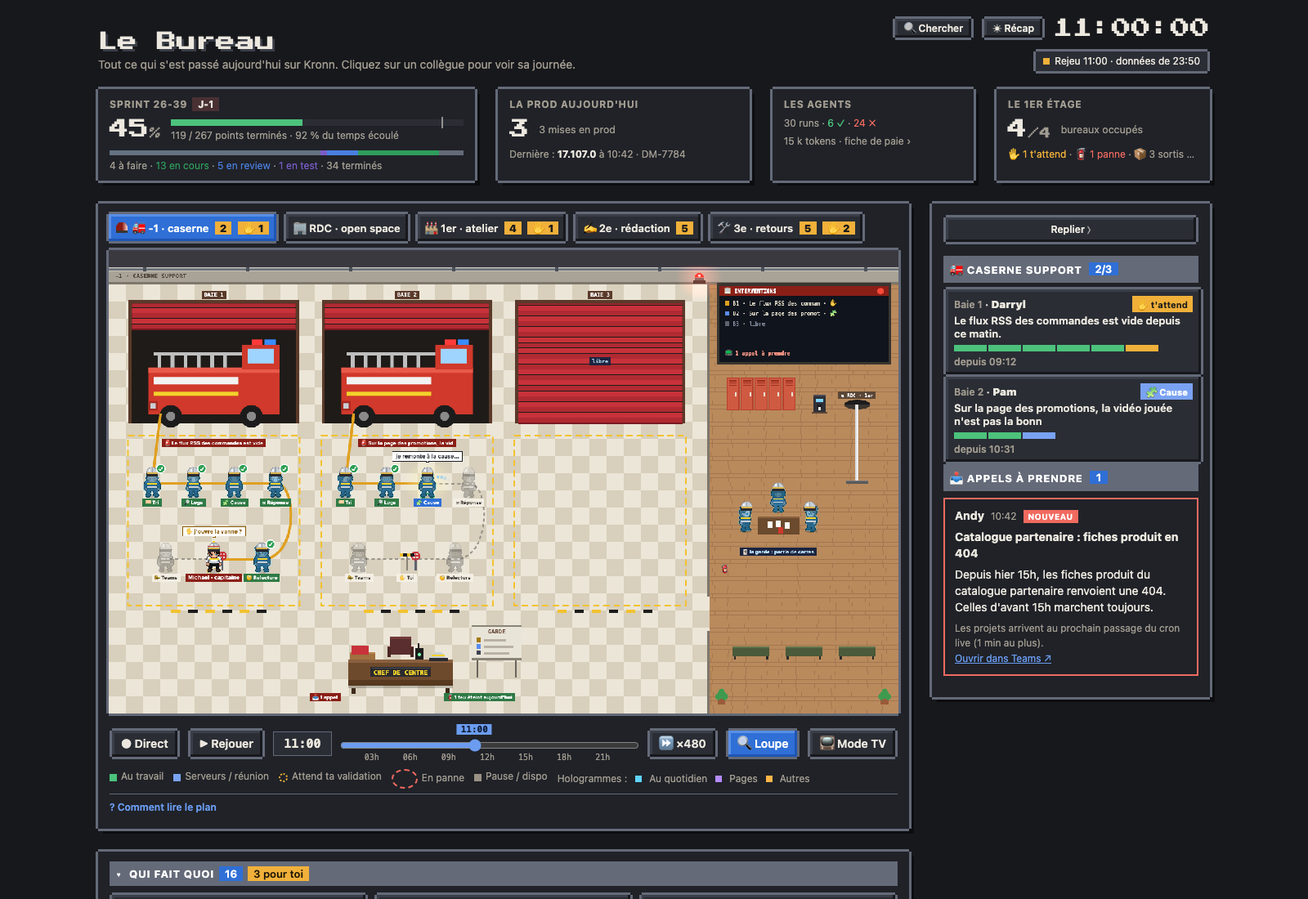
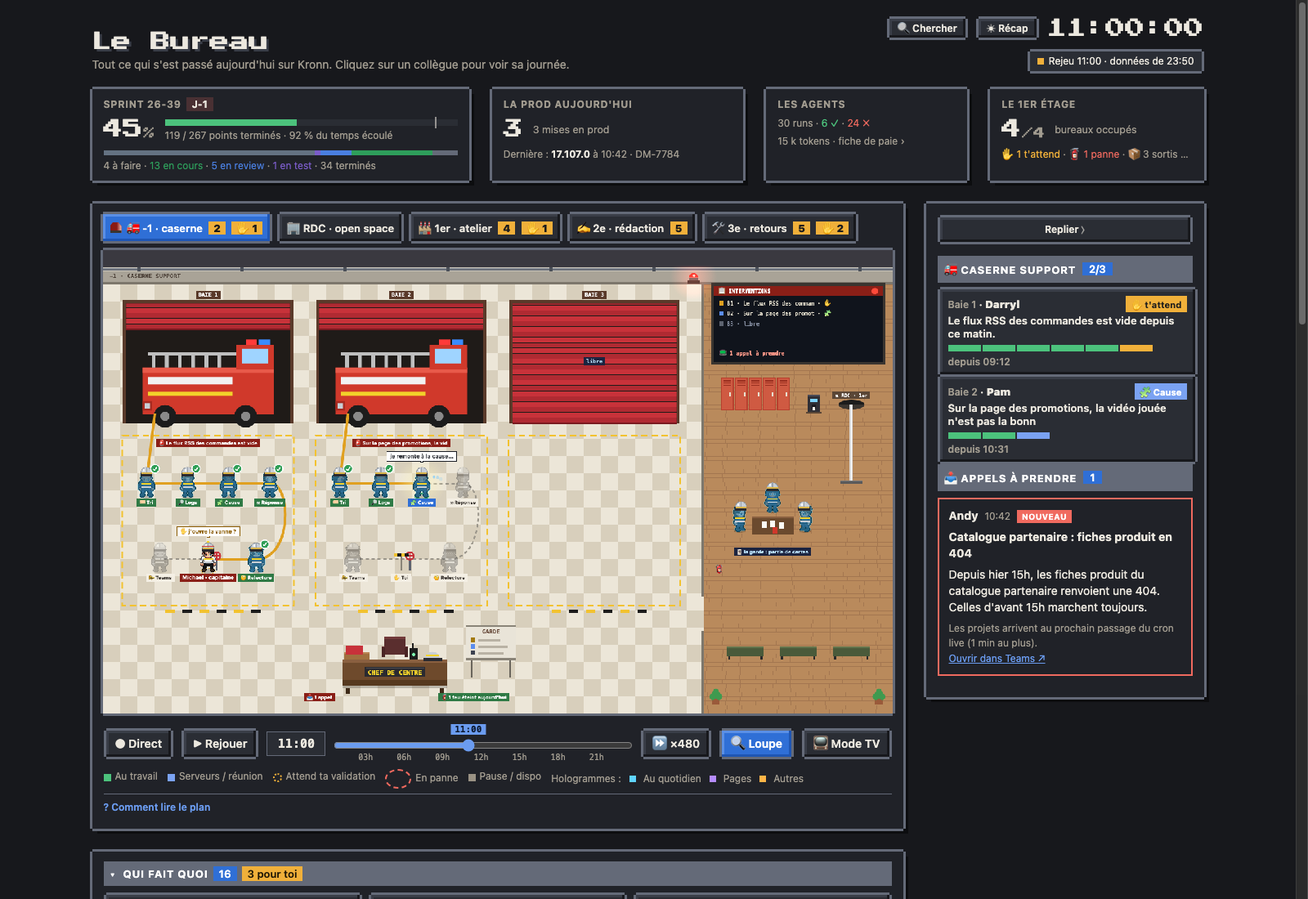
fix(etages): la nuit des 2e, 3e et -1 comme au RDC, pièce par pièce
Une seule lumière du soir pour les étages (floorNight, 68-atelier.js), le 1er compris, sans changement à l'écran pour lui.
Comme au RDC : le voile suit le soleil (crépuscule, teinte du soir) au lieu de basculer à la fermeture ; chaque pièce où
l'on travaille s'allume en fondu avec ses plafonniers, comme la cantine (la salle de rédaction et les bureaux de revue au
2e, les bureaux du 3e, les baies et la salle de garde au -1) ; chaque agent au travail a sa lampe et son écran ; la lampe
du bureau du boss reste allumée. Hors des heures de bureau, la veilleuse reste, même en plein jour le week-end.

diff --git a/page/src/68-atelier.js b/page/src/68-atelier.js
@@ -685,31 +685,62 @@ function atWindows(now){
   for(const x of AT_WINDOWS){R(ctx,x*T_+4,T_+4,T_*1.5,20,'#e7e1d3');R(ctx,x*T_+6,T_+6,T_*1.5-4,16,sky);drawStars(x*T_+6,T_+6,T_*1.5-4,16,now);
     themeWindow(x*T_+6,T_+6,T_*1.5-4,16,now,x);R(ctx,x*T_+4+T_*.75,T_+4,2,20,'#e7e1d3');}
 }
-let AT_NIGHT_CV=null, AT_NIGHT_AT=0, AT_NIGHT_SIG='';
-function atNight(slots,now){
-  const d=daylight(T), dark=(1-d.k)*NIGHT_MAX;if(dark<.02)return;
-  const W_=AT_W/LQ, H_=AT_H/LQ;
-  if(!AT_NIGHT_CV){AT_NIGHT_CV=[lightCanvas(W_,H_),lightCanvas(W_,H_)];}
-  // le masque se refait toutes les 200 ms, comme au RDC ; plus souvent quand quelqu'un marche, pour que sa lumière le suive
-  const sig=AT_LIT.map(q=>Math.round(q.x/4)+','+Math.round(q.y/4)).join(' ');
-  if(now-AT_NIGHT_AT>200||!AT_NIGHT_AT||sig!==AT_NIGHT_SIG&&now-AT_NIGHT_AT>40){AT_NIGHT_AT=now;AT_NIGHT_SIG=sig;
-    const tint=mixC([10,14,40],d.morning?[70,40,24]:[66,30,52],d.twi*.7), m=AT_NIGHT_CV[0].getContext('2d');
+// La nuit des étages, la même au 1er, au 2e, au 3e et au -1 : le voile du RDC (42-light.js), qui suit le soleil.
+// S : la mémoire de l'étage ; o.rooms : ses pièces [x0,y0,x1,y1,allumée] en cases (bornes comprises, comme
+// LAYOUT.light_rooms), qui s'allument et s'éteignent en fondu avec leurs plafonniers, comme la cantine du RDC ; o.rects :
+// des aplats retirés au voile [x,y,w,h,a] ; o.spots : {x,y,r,a,c} (c : halo coloré, comme les lampes du RDC) ; o.track :
+// ceux qui marchent (le masque se refait plus souvent quand ils bougent, pour que leur lumière les suive) ; o.closed :
+// hors des heures de bureau, la veilleuse même si le soleil est levé (le soir d'été, le week-end)
+function floorNight(S,o,now){
+  const d=daylight(T), dark=Math.max((1-d.k)*NIGHT_MAX,o.closed?NIGHT_MAX:0);if(dark<.02){S.lv=null;return;}
+  const W_=AT_W/LQ, H_=AT_H/LQ, rooms=o.rooms||[], spots=o.spots||[], halo=rooms.length>0||spots.some(q=>q.c);
+  if(!S.cv)S.cv=[lightCanvas(W_,H_),lightCanvas(W_,H_),lightCanvas(AT_W,AT_H)];
+  if(!S.lv||S.lv.length!==rooms.length)S.lv=rooms.map(z=>z[4]?1:0);
+  const sig=(o.track||[]).map(q=>Math.round(q.x/4)+','+Math.round(q.y/4)).join(' ');
+  if(now-S.at>200||!S.at||sig!==S.sig&&now-S.at>40){const dt=S.at?Math.min(1000,now-S.at):LIGHT_FADE;S.at=now;S.sig=sig;
+    rooms.forEach((z,i)=>{S.lv[i]+=((z[4]?1:0)-S.lv[i])*Math.min(1,dt/LIGHT_FADE);});
+    const tint=mixC([10,14,40],d.morning?[70,40,24]:[66,30,52],d.twi*.7), m=S.cv[0].getContext('2d');
     m.setTransform(1,0,0,1,0,0);m.globalCompositeOperation='source-over';m.clearRect(0,0,W_,H_);
     m.fillStyle=`rgba(${tint[0]},${tint[1]},${tint[2]},${dark})`;m.fillRect(0,0,W_,H_);
     m.setTransform(1/LQ,0,0,1/LQ,0,0);m.globalCompositeOperation='destination-out';
-    slots.forEach((r,i)=>{const sweep=AT_MEM.clean&&AT_MEM.clean.stop.i===i;if(!r&&!sweep)return;const g=AT_G[i];
-      m.fillStyle=r?'rgba(0,0,0,.45)':'rgba(0,0,0,.25)';m.fillRect(g.x0*AT_TS,g.y0*AT_TS,(g.x1-g.x0)*AT_TS,(g.y1-g.y0)*AT_TS);
-      if(!r)return;
-      for(const p of AT_DESKS){const s=atSpot(g,p.k), y=s.row===1?g.feet1:g.feet2;softSpot(m,s.x,y-24,1.7*AT_TS,.9);} // chaque poste, sous sa lampe
-      softSpot(m,(g.bx0+g.bx1)/2,(g.b1+g.b2)/2+g.H/2,(g.bx1-g.bx0)/2,.5);}); // le tapis
-    for(const h of AT_HITS)if(h.kind==='agent'||h.kind==='bernard'||h.kind==='cleaner'||h.kind==='pompier')softSpot(m,h.x+14,h.y+30,42,.95);
-    for(const q of AT_LIT)softSpot(m,q.x,q.y-26,42,.95); // comme au RDC (42-light.js) : le boss, et ceux qui marchent, dans leur lumière
-    softSpot(m,AT_CHAIR.x,AT_CHAIR.y-14,3.2*AT_TS,.9); // la lampe du bureau du boss, toujours allumée
-    softSpot(m,23*AT_TS,2.6*AT_TS,6*AT_TS,.7); // le grand tableau
-    softSpot(m,46*AT_TS-10,AT_HY0*AT_TS+20,40,.5);softSpot(m,1.1*AT_TS,AT_HY1*AT_TS-20,30,.5); // la sortie, la machine à café
-    const l=AT_NIGHT_CV[1].getContext('2d');l.clearRect(0,0,W_,H_);l.filter='blur(3px)';l.drawImage(AT_NIGHT_CV[0],0,0);l.filter='none';
-  }
-  const sm=ctx.imageSmoothingEnabled;ctx.imageSmoothingEnabled=true;ctx.drawImage(AT_NIGHT_CV[1],0,0,AT_W,AT_H);ctx.imageSmoothingEnabled=sm;
+    for(const [x,y,w,h,a] of o.rects||[]){m.fillStyle=`rgba(0,0,0,${a})`;m.fillRect(x,y,w,h);}
+    rooms.forEach((z,i)=>{const lv=S.lv[i];if(lv<.01)return;const [x0,y0,x1,y1]=z;
+      m.fillStyle=`rgba(0,0,0,${(.22*lv).toFixed(3)})`;m.fillRect(x0*AT_TS,y0*AT_TS-6,(x1-x0+1)*AT_TS,(y1-y0+1)*AT_TS+6);
+      for(const [x,y] of floorLamps(z))softSpot(m,x,y,2.6*AT_TS,.7*lv);});
+    for(const q of spots)softSpot(m,q.x,q.y,q.r,q.a);
+    const l=S.cv[1].getContext('2d');l.clearRect(0,0,W_,H_);l.filter='blur(3px)';l.drawImage(S.cv[0],0,0);l.filter='none';
+    const h=S.cv[2].getContext('2d'), f=Math.min(1,dark/NIGHT_MAX*1.4);h.clearRect(0,0,AT_W,AT_H);
+    if(halo){for(const q of spots)if(q.c)softSpot(h,q.x,q.y,q.r*.9,0,q.c.replace(/[\d.]+\)$/,mm=>(parseFloat(mm)*f).toFixed(3)+')'));
+      rooms.forEach((z,i)=>{const lv=S.lv[i];if(lv<.01)return;for(const [x,y] of floorLamps(z))softSpot(h,x,y,2.2*AT_TS,0,`rgba(255,226,170,${(.07*lv*f).toFixed(3)})`);});}}
+  const sm=ctx.imageSmoothingEnabled;ctx.imageSmoothingEnabled=true;ctx.drawImage(S.cv[1],0,0,AT_W,AT_H);ctx.imageSmoothingEnabled=sm;
+  if(halo){ctx.save();ctx.globalCompositeOperation='lighter';ctx.drawImage(S.cv[2],0,0);ctx.restore();}
+}
+// les plafonniers d'une pièce : une flaque de lumière toutes les 3 cases (ceilingLamps du RDC, aux cases des étages)
+function floorLamps([x0,y0,x1,y1]){const xs=[], ys=[], w=x1-x0+1, h=y1-y0+1;
+  if(w<=3)xs.push((x0+x1+1)/2);else for(let x=x0+1.5;x<=x1+.5;x+=3)xs.push(x);
+  if(h<=3)ys.push((y0+y1+1)/2);else for(let y=y0+1.5;y<=y1+.5;y+=3)ys.push(y);
+  return xs.flatMap(x=>ys.map(y=>[x*AT_TS,y*AT_TS]));}
+// chacun lisible (le voile s'ouvre autour de lui, comme au RDC) ; ceux qui travaillent ont leur lampe de bureau et leur écran
+function floorPeopleSpots(people){const out=[];
+  for(const [c] of people){if(!c.sprite||!c.pos||c.ghost)continue;const {x,y}=c.pos;out.push({x,y:y-26,r:30,a:.8});
+    if(c._st&&['run','gate','err'].includes(c._st.st)&&!c.moving)out.push({x:x+10,y:y-20,r:30,a:.85,c:'rgba(255,214,150,.18)'},{x,y:y-34,r:16,a:.6,c:'rgba(120,200,255,.14)'});}
+  return out;}
+// la lampe du bureau du boss, toujours allumée (comme au RDC)
+const floorBossLamp=(x,F)=>({x,y:F-14,r:46,a:.85,c:'rgba(255,214,150,.2)'});
+const AT_NIGHT={};
+function atNight(slots,now){
+  const rects=[], spots=[];
+  slots.forEach((r,i)=>{const sweep=AT_MEM.clean&&AT_MEM.clean.stop.i===i;if(!r&&!sweep)return;const g=AT_G[i];
+    rects.push([g.x0*AT_TS,g.y0*AT_TS,(g.x1-g.x0)*AT_TS,(g.y1-g.y0)*AT_TS,r?.45:.25]);
+    if(!r)return;
+    for(const p of AT_DESKS){const s=atSpot(g,p.k), y=s.row===1?g.feet1:g.feet2;spots.push({x:s.x,y:y-24,r:1.7*AT_TS,a:.9});} // chaque poste, sous sa lampe
+    spots.push({x:(g.bx0+g.bx1)/2,y:(g.b1+g.b2)/2+g.H/2,r:(g.bx1-g.bx0)/2,a:.5});}); // le tapis
+  for(const h of AT_HITS)if(h.kind==='agent'||h.kind==='bernard'||h.kind==='cleaner'||h.kind==='pompier')spots.push({x:h.x+14,y:h.y+30,r:42,a:.95});
+  for(const q of AT_LIT)spots.push({x:q.x,y:q.y-26,r:42,a:.95}); // comme au RDC (42-light.js) : le boss, et ceux qui marchent, dans leur lumière
+  spots.push({x:AT_CHAIR.x,y:AT_CHAIR.y-14,r:3.2*AT_TS,a:.9}, // la lampe du bureau du boss, toujours allumée
+    {x:23*AT_TS,y:2.6*AT_TS,r:6*AT_TS,a:.7}, // le grand tableau
+    {x:46*AT_TS-10,y:AT_HY0*AT_TS+20,r:40,a:.5},{x:1.1*AT_TS,y:AT_HY1*AT_TS-20,r:30,a:.5}); // la sortie, la machine à café
+  floorNight(AT_NIGHT,{rects,spots,track:AT_LIT},now);
 }
 // ---------- l'image ----------
 function renderAtelier(now){

diff --git a/page/src/68-caserne.js b/page/src/68-caserne.js
@@ -370,23 +370,16 @@ function csCaptain(slots,now,dt,people){
   if(home_)csLate(people,()=>atPill(boss.name+' · capitaine',p.x,Math.round(F+17*K+12),'#8a1f17','#fff','bold 10px system-ui,sans-serif'),F+3); // sous le bureau
   CS_LIT.push(p);atHitCs('captain',p.x-16,p.y-56,32,60,{});
 }
-// ---------- nuit : hors des heures de bureau, la caserne passe en veilleuse ----------
-let CS_NIGHT_CV=null, CS_NIGHT_AT=0, CS_NIGHT_SIG='';
-function csNight(slots,now){
-  if(atOpen())return;
-  const W_=AT_W/LQ, H_=AT_H/LQ, T=AT_TS;
-  if(!CS_NIGHT_CV)CS_NIGHT_CV=[lightCanvas(W_,H_),lightCanvas(W_,H_)];
-  // comme au 1er (#154) : le masque se refait toutes les 200 ms, plus souvent quand le capitaine marche, pour que sa lumière le suive
-  const sig=CS_LIT.map(q=>Math.round(q.x/4)+','+Math.round(q.y/4)).join(' ');
-  if(now-CS_NIGHT_AT>200||!CS_NIGHT_AT||sig!==CS_NIGHT_SIG&&now-CS_NIGHT_AT>40){CS_NIGHT_AT=now;CS_NIGHT_SIG=sig;
-    const m=CS_NIGHT_CV[0].getContext('2d');m.setTransform(1,0,0,1,0,0);m.globalCompositeOperation='source-over';m.clearRect(0,0,W_,H_);
-    m.fillStyle='rgba(10,14,40,.5)';m.fillRect(0,0,W_,H_);m.setTransform(1/LQ,0,0,1/LQ,0,0);m.globalCompositeOperation='destination-out';
-    slots.forEach((s,b)=>{if(!s)return;const z=CS_G[b];softSpot(m,z.cx,(CS_DY1-1)*T,4*T,.7);softSpot(m,z.cx,(CS_R1+.5)*T,4.5*T,.8);softSpot(m,z.cx,(CS_R2+.3)*T,4*T,.7);});
-    softSpot(m,40.5*T,23.4*T,4.5*T,.55);softSpot(m,40.6*T,4.2*T,5*T,.7);softSpot(m,CS_POLE.x,CS_POLE.y1-1.2*T,2.2*T,.6);softSpot(m,CS_DESK.x,CS_DESK.y-10,3.6*T,.9); // la lampe du bureau du chef de centre, toujours allumée
-    for(const q of CS_LIT)softSpot(m,q.x,q.y-26,42,.95); // le capitaine dans sa lumière, à son bureau ou en route vers la vanne
-    for(const w of CS_MEM.walk||[])if(w.pos)softSpot(m,w.pos.x,w.pos.y-26,40,.9); // les pompiers qui descendent, courent ou remontent
-    const l=CS_NIGHT_CV[1].getContext('2d');l.clearRect(0,0,W_,H_);l.filter='blur(3px)';l.drawImage(CS_NIGHT_CV[0],0,0);l.filter='none';}
-  const sm=ctx.imageSmoothingEnabled;ctx.imageSmoothingEnabled=true;ctx.drawImage(CS_NIGHT_CV[1],0,0,AT_W,AT_H);ctx.imageSmoothingEnabled=sm;
+// ---------- la nuit, comme au RDC (floorNight) : chaque baie en intervention s'allume ; la salle de garde tant que la garde
+// veille (la nuit, elle dort : sa veilleuse seulement) ; la lampe du bureau du chef de centre reste allumée ; le capitaine et
+// les pompiers qui descendent la barre, courent ou remontent ont leur lumière ; hors des heures de bureau, la veilleuse ----------
+const CS_NIGHT={};
+function csNight(slots,people,now){
+  const T_=AT_TS, open=atOpen(), walk=(CS_MEM.walk||[]).filter(w=>w.pos).map(w=>w.pos), lit=[...CS_LIT,...walk];
+  const rooms=CS_G.map((z,b)=>[CS_BX[b],CS_DY1,CS_BX[b]+CS_BW-1,Math.floor(CS_Z1),!!slots[b]]).concat([[35,2,45,26,open]]);
+  floorNight(CS_NIGHT,{rooms,closed:!open,track:lit,spots:[...floorPeopleSpots(people),...lit.map(q=>({x:q.x,y:q.y-26,r:42,a:.95})),
+    floorBossLamp(CS_DESK.x,CS_DESK.y),{x:40.5*T_,y:23.4*T_,r:2.2*T_,a:.5,c:'rgba(255,190,120,.12)'}, // la veilleuse de la garde
+    {x:CS_POLE.x,y:CS_POLE.y1-1.2*T_,r:2.2*T_,a:.6}]},now); // la barre
 }
 // ---------- le ménage du soir au -1 : après le 1er (atCleanVisit, 68-atelier.js), l'agent d'entretien descend la barre ----------
 // Rejouable comme au 1er : tout se lit dans l'heure du plan. Il descend par la barre (le seul accès), balaie l'allée devant
@@ -446,7 +439,7 @@ function renderCaserne(now){
   csBoard(slots,now);csGuard(now,people);csWalkers(now,dt,people);csCaptain(slots,now,dt,people);csBeacon(now);
   people.sort((a,b)=>a[0].pos.y-b[0].pos.y).forEach(([c,d,before,after])=>{if(before&&d)d();if(c.sprite)drawChar(c,now);if(!before&&d)d();if(after)after();});
   csTheme(now); // comme au 1er : sapin et guirlande à Noël, citrouilles à Halloween, ballons
-  csNight(slots,now);
+  csNight(slots,people,now);
   const hp=csPickedAt();if(hp)selHalo(hp.x,hp.y-26,AT_W,AT_H); // comme au RDC et au 1er : le plan s'assombrit autour de celui qu'on a choisi
   if(CS_SEL!=null){const b=CS_MEM.slots.indexOf(CS_SEL);if(b>=0){const z=CS_G[b];ctx.save();ctx.strokeStyle='#ffffff';ctx.lineWidth=3;ctx.setLineDash([8,6]);ctx.lineDashOffset=-now/60;ctx.strokeRect(z.x0+1,CS_DY0*AT_TS-20,z.w-2,(CS_Z1-CS_DY0)*AT_TS+24);ctx.restore();}}
 }

diff --git a/page/src/68-retours.js b/page/src/68-retours.js
@@ -243,20 +243,13 @@ function rtDiff(now){
   slots.forEach((r,i)=>{if(!r||seen[r.run])return;seen[r.run]={i,fade:fresh?1:0};if(!fresh)RT_MEM.scenes.push({kind:'arrive',i,run:r.run,t0:now});});
   RT_MEM.fresh=false;
 }
-// ---------- nuit : hors des heures de bureau, l'étage en veilleuse ; les agents au travail et le boss gardent leur lumière ----------
-let RT_NIGHT_CV=null, RT_NIGHT_AT=0, RT_NIGHT_SIG='';
-function rtNight(now){
-  if(atOpen())return;
-  const W_=AT_W/LQ, H_=AT_H/LQ, T=AT_TS;
-  if(!RT_NIGHT_CV)RT_NIGHT_CV=[lightCanvas(W_,H_),lightCanvas(W_,H_)];
-  const sig=RT_LIT.map(q=>Math.round(q.x/4)+','+Math.round(q.y/4)).join(' ');
-  if(now-RT_NIGHT_AT>200||!RT_NIGHT_AT||sig!==RT_NIGHT_SIG&&now-RT_NIGHT_AT>40){RT_NIGHT_AT=now;RT_NIGHT_SIG=sig;
-    const m=RT_NIGHT_CV[0].getContext('2d');m.setTransform(1,0,0,1,0,0);m.globalCompositeOperation='source-over';m.clearRect(0,0,W_,H_);
-    m.fillStyle='rgba(10,14,40,.55)';m.fillRect(0,0,W_,H_);m.setTransform(1/LQ,0,0,1/LQ,0,0);m.globalCompositeOperation='destination-out';
-    for(const q of RT_LIT)softSpot(m,q.x,q.y-26,40,.85);
-    softSpot(m,RT_DESK.x,RT_DESK.y-20,2*T,.5);softSpot(m,RT_STAIRS.x,RT_STAIRS.y,1.6*T,.45);
-    const l=RT_NIGHT_CV[1].getContext('2d');l.clearRect(0,0,W_,H_);l.filter='blur(3px)';l.drawImage(RT_NIGHT_CV[0],0,0);l.filter='none';}
-  const sm=ctx.imageSmoothingEnabled;ctx.imageSmoothingEnabled=true;ctx.drawImage(RT_NIGHT_CV[1],0,0,AT_W,AT_H);ctx.imageSmoothingEnabled=sm;
+// ---------- la nuit, comme au RDC (floorNight) : chaque bureau occupé s'allume ; la lampe du bureau du boss reste allumée ;
+// hors des heures de bureau, la veilleuse ----------
+const RT_NIGHT={};
+function rtNight(slots,people,now){
+  const T_=AT_TS, rooms=RT_G.map((z,i)=>[Math.round(z.x0/T_),Math.round(z.y0/T_),Math.round((z.x0+z.w)/T_)-1,Math.round((z.y0+z.h)/T_)-1,!!slots[i]]);
+  floorNight(RT_NIGHT,{rooms,closed:!atOpen(),track:RT_LIT,spots:[...floorPeopleSpots(people),...RT_LIT.map(q=>({x:q.x,y:q.y-26,r:42,a:.95})),
+    floorBossLamp(RT_DESK.x,RT_DESK.y),{x:RT_STAIRS.x,y:RT_STAIRS.y,r:1.6*T_,a:.45}]},now); // l'escalier
 }
 // ---------- l'image ----------
 const rtSig=()=>rtRooms().map(r=>r.run).join('|');
@@ -272,7 +265,7 @@ function renderRetours(now){
   slots.forEach((r,i)=>rtRoom(r,i,now,people));
   rtHall(slots,now,people);rtBoss(slots,now,dt,people);rtScenes(now,dt,people);
   people.sort((a,b)=>a[0].pos.y-b[0].pos.y).forEach(([c,d,before,after])=>{if(d)d();if(c.sprite)drawChar(c,now);if(after)after();});
-  rtNight(now);
+  rtNight(slots,people,now);
   if(RTSEL!=null){const i=slots.findIndex(r=>r&&r.run===RTSEL);if(i>=0){const z=RT_G[i];ctx.save();ctx.strokeStyle='#ffffff';ctx.lineWidth=3;ctx.setLineDash([8,6]);ctx.lineDashOffset=-now/60;ctx.strokeRect(z.x0+3,z.y0+3,z.w-6,z.h-6);ctx.restore();}}
   const b=chars.find(c=>c.boss);if(b&&sel===b.key&&RT_MEM.boss)selHalo(RT_MEM.boss.walk.pos.x,RT_MEM.boss.walk.pos.y-26,AT_W,AT_H);
 }

diff --git a/page/src/68-redaction.js b/page/src/68-redaction.js
@@ -161,23 +161,21 @@ function rdRevue(now,people){
   const sx=(RD_X1+RD_VX)/2*T;atCoffee(sx,6.4*T);atPlant(sx-36,20*T);atPlant(sx+36,20*T);
   rdLate(people,()=>atPill('⇅ escalier · RDC',sx,23.6*T,'#5a4636','#fff','bold 9px ui-monospace,Menlo,monospace'),1e6);
 }
-// ---------- nuit : la veilleuse ; ceux au travail et le boss gardent leur lumière ----------
-let RD_NIGHT_CV=null, RD_NIGHT_AT=0;
-function rdNight(now){
-  if(atOpen())return;
-  const W_=AT_W/LQ, H_=AT_H/LQ;if(!RD_NIGHT_CV)RD_NIGHT_CV=[lightCanvas(W_,H_),lightCanvas(W_,H_)];
-  if(now-RD_NIGHT_AT>200||!RD_NIGHT_AT){RD_NIGHT_AT=now;const m=RD_NIGHT_CV[0].getContext('2d');m.setTransform(1,0,0,1,0,0);m.globalCompositeOperation='source-over';m.clearRect(0,0,W_,H_);
-    m.fillStyle='rgba(10,14,40,.55)';m.fillRect(0,0,W_,H_);m.setTransform(1/LQ,0,0,1/LQ,0,0);m.globalCompositeOperation='destination-out';
-    for(const q of RD_LIT)softSpot(m,q.x,q.y-26,40,.85);
-    const l=RD_NIGHT_CV[1].getContext('2d');l.clearRect(0,0,W_,H_);l.filter='blur(3px)';l.drawImage(RD_NIGHT_CV[0],0,0);l.filter='none';}
-  const sm=ctx.imageSmoothingEnabled;ctx.imageSmoothingEnabled=true;ctx.drawImage(RD_NIGHT_CV[1],0,0,AT_W,AT_H);ctx.imageSmoothingEnabled=sm;
+// ---------- la nuit, comme au RDC (floorNight) : la salle de rédaction s'allume tant qu'une intention y est, chaque bureau de
+// la revue quand une PR y est lue ; la lampe du bureau du boss reste allumée ; hors des heures de bureau, la veilleuse ----------
+const RD_NIGHT={};
+function rdNight(people,now){
+  const T_=AT_TS, l=rvActive(), rooms=[[0,2,Math.ceil(RD_X1)-1,26,!!rdTable()]];
+  for(let k=0;k<6;k++){const cx=28.5+(k%3)*6.3, f=k<3?9.2:18.4;rooms.push([Math.round(cx-2.5),Math.round(f-3),Math.round(cx+2.5),Math.round(f+3),!!l[k]]);}
+  floorNight(RD_NIGHT,{rooms,closed:!atOpen(),track:RD_LIT,spots:[...floorPeopleSpots(people),...RD_LIT.map(q=>({x:q.x,y:q.y-26,r:42,a:.95})),
+    floorBossLamp(RD_DESK.x,RD_DESK.y),{x:(RD_X1+RD_VX)/2*T_,y:24.6*T_,r:1.6*T_,a:.45}]},now); // l'escalier
 }
 function rdReset(){RD_MEM={last:0};RDSEL=null;}
 function renderRedaction(now){
   RD_MEM.last=now;if(!RD_BG)RD_BG=rdBackground();ctx.drawImage(RD_BG,0,0);RD_HITS=[];RD_LIT=[];
   const people=[];rdRoom(now,people);rdRevue(now,people);
   people.sort((a,b)=>a[0].pos.y-b[0].pos.y).forEach(([c,d,before,after])=>{if(d)d();if(c.sprite)drawChar(c,now);if(after)after();});
-  rdNight(now);
+  rdNight(people,now);
   const b=chars.find(c=>c.boss);if(b&&sel===b.key)selHalo(RD_DESK.x,RD_DESK.y-26,AT_W,AT_H);
 }
 function atHitRd(kind,x,y,w,h,ref){RD_HITS.push({kind,x,y,w,h,...ref});}

diff --git a/tests/redaction.test.js b/tests/redaction.test.js
@@ -72,3 +72,21 @@ test("le boss au tampon : assis au bureau du RDC, sans la pose de frappe (il ne 
   assert.equal(b.pose, 'stand');
   assert.equal(b.y, J('RD_DESK.y'));
 });
+
+test("la nuit comme au RDC : la salle de rédaction et les bureaux de revue occupés s'allument, les bureaux libres restent dans l'ombre", () => {
+  const {p, J} = page();
+  p.run('setFloor(2); T = DAY0 + 22.5 * 36e5; renderRedaction(1000);');
+  const lv = J('RD_NIGHT.lv'), l = J('rvActive().length');
+  assert.equal(lv.length, 7, 'la salle de rédaction et les six bureaux de la revue');
+  assert.equal(lv[0], 1, 'une intention est sur la table');
+  assert.deepEqual(lv.slice(1), [...Array(6).keys()].map(k => (k < l ? 1 : 0)));
+});
+
+test("floorNight : le voile suit le soleil ; hors des heures de bureau (le week-end à midi), la veilleuse quand même", () => {
+  const {p, J} = page();
+  const day = 'T = DAY0 + 2 * 864e5 + 12 * 36e5;'; // le samedi à midi
+  p.run(day + 'var __S = {}, __R = {rooms: [[0, 0, 3, 3, true]]}; floorNight(__S, __R, 1000);');
+  assert.equal(J('__S.lv'), null, 'en plein jour, pas de voile');
+  p.run('floorNight(__S, {...__R, closed: true}, 1300);');
+  assert.deepEqual(J('__S.lv'), [1], 'le week-end, la veilleuse et la pièce allumée');
+});

diff --git a/tests/atelier.test.js b/tests/atelier.test.js
@@ -337,7 +337,7 @@ test('le soir, comme au RDC : le boss et ceux qui se promènent ont leur lumièr
   saturdayNight(p);
   p.run(`AT_MEM.wander = []; for (let n = 0; n < 40; n++) atWanderTick(atSlots(), n * 100, .1, () => 0);
     var __sp = [], __so = softSpot; softSpot = (g, x, y, r, a, c) => { __sp.push([Math.round(x), Math.round(y)]); __so(g, x, y, r, a, c); };
-    AT_NIGHT_AT = 0; renderAtelier(1000); AT_NIGHT_AT = 0; __sp = []; renderAtelier(1300); softSpot = __so;`);
+    AT_NIGHT.at = 0; renderAtelier(1000); AT_NIGHT.at = 0; __sp = []; renderAtelier(1300); softSpot = __so;`);
   assert.ok(J2('AT_MEM.wander.length') > 0, 'des agents se promènent');
   const lit = (x, y) => J2(`__sp.some(([a, b]) => a === ${Math.round(x)} && b === ${Math.round(y)})`);
   const b = J2('AT_MEM.boss.walk.pos');

diff --git a/tests/caserne.test.js b/tests/caserne.test.js
@@ -161,7 +161,7 @@ test('le soir, comme au 1er : le capitaine a sa lumière, qui le suit jusqu\'à 
   const {p, J} = page();
   p.run(`SUPPORT = supportDemo(); setFloor(-1); T = DAY0 + 22.5 * 36e5; renderCaserne(1000);
     var __sp = [], __so = softSpot; softSpot = (g, x, y, r, a, c) => { __sp.push([Math.round(x), Math.round(y)]); __so(g, x, y, r, a, c); };
-    CS_NIGHT_AT = 0; renderCaserne(1100); softSpot = __so;`);
+    CS_NIGHT.at = 0; renderCaserne(1100); softSpot = __so;`);
   const lit = q => J(`__sp.some(([a, b]) => a === ${Math.round(q.x)} && b === ${Math.round(q.y - 26)})`);
   assert.ok(lit(J('CS_MEM.boss.walk.pos')), 'le capitaine, là où il est');
   p.run(`__sp = []; softSpot = (g, x, y, r, a, c) => { __sp.push([Math.round(x), Math.round(y)]); __so(g, x, y, r, a, c); };

diff --git a/guide/fonctionnalites/25-caserne.md b/guide/fonctionnalites/25-caserne.md
@@ -22,7 +22,7 @@ L'onglet « 🚒 -1 · caserne Support » apparaît avant « 🏢 RDC · open sp
 - **Rien n'apparaît ni ne disparaît d'un coup.** En arrivant à l'étage, rien ne se rejoue : les équipes sont déjà devant leur camion. Si le système demande moins d'animations, tout est posé directement, sans arrivée ni départ.
 - **Le bureau du chef de centre**, en bas : le capitaine s'y tient de face, derrière un grand bureau en bois (plaque « CHEF DE CENTRE », fauteuil rouge, radio verte aux heures de bureau, casque posé, corbeille des appels à prendre, cliquable). À côté, le **tableau de garde** sur pied : un voyant par baie (bleu : au travail, jaune : t'attend, rouge : en panne, vert : en route). Dessous, la pile des appels à prendre (les nouveaux fils) et le compteur des feux éteints aujourd'hui (réponses postées). Quand une réponse attend, il quitte son bureau par l'arrière pour aller à la vanne ; le bureau reste.
 - **La salle de garde**, à droite : le tableau des interventions (une ligne par baie, les appels à prendre, le voyant qui clignote quand un appel attend), les casiers, la machine à café, la garde qui joue aux cartes, les lits de camp. Contre le mur de droite, la barre de pompier est le seul accès aux autres étages (« ⇅ RDC · 1er »). Au mur, entre la baie 3 et la salle de garde, le **gyrophare** tourne et balaie le sous-sol tant qu'un appel attend d'être pris ou qu'une intervention est en cours.
-- **Le soir et le week-end**, la garde reste : la caserne passe en veilleuse, le capitaine reste à son poste et garde sa lumière, qui le suit jusqu'à la vanne, seules les baies occupées, le tableau, la barre et les lits de camp restent éclairés, et la garde dort, prête à partir. Les interventions continuent.
+- **Le soir et le week-end**, la garde reste : la caserne passe en veilleuse, comme le RDC la nuit : chaque baie en intervention s'allume comme une pièce, avec ses plafonniers, et chaque pompier au travail a sa lampe ; le capitaine garde sa lumière, qui le suit jusqu'à la vanne ; la barre et la veilleuse des lits de camp restent éclairées, et la garde dort, prête à partir. Les interventions continuent.
 
 ![La caserne le soir : la garde dort sur les lits de camp](../img/caserne-calme.png)
 

diff --git a/guide/fonctionnalites/27-retours.md b/guide/fonctionnalites/27-retours.md
@@ -16,7 +16,7 @@ L'onglet « 🛠 3e · retours de PR » apparaît après « 🏭 1er » dès que
 - **Le boss est toujours là**, assis à son bureau du couloir, le même qu'au RDC. Quand une PR attend ta validation, il se lève, longe le couloir, entre par la porte du bureau et va à la barrière ✋. Il n'y a qu'un boss : il va d'abord au bureau qui attend depuis le plus longtemps, les autres clignotent à leur barrière (« en file : le boss est au bureau 2 ») et il y passe ensuite. Il ressort par où il est entré.
 - **Bernard** monte une PR par l'escalier jusqu'à son bureau, y pose le carton, et la redescend une fois les corrections poussées ; le bureau s'éteint.
 - **Le couloir** : les PR qui attendent un bureau, le café, un banc où s'assoient les agents des bureaux libres, le bureau du boss, l'escalier vers les autres étages.
-- **Le soir et le week-end**, l'étage passe en veilleuse : seuls les agents au travail et le boss gardent leur lumière, qui le suit quand il marche.
+- **Le soir et le week-end**, l'étage passe en veilleuse, comme le RDC la nuit : chaque bureau occupé s'allume comme une pièce, avec ses plafonniers, les bureaux libres restent dans l'ombre ; chaque agent au travail a sa lampe et son écran, la lampe du bureau du boss reste allumée, et sa lumière le suit quand il marche.
 
 ![Le 3e le soir : une PR en correction, le boss à son bureau](../img/retours-calme.png)
 

diff --git a/CHANGELOG.md b/CHANGELOG.md
@@ -8,6 +8,7 @@ Format : [Keep a Changelog](https://keepachangelog.com/fr/1.1.0/). Versions : `0
 
 ### Corrigé
 
+- 2e, 3e et -1 : la nuit comme au RDC. Le voile monte au crépuscule avec la teinte du soir (il basculait d'un coup), chaque pièce où l'on travaille s'allume en fondu avec ses plafonniers (salle de rédaction, bureaux de revue, bureaux du 3e, baies du -1), chaque agent au travail a sa lampe et son écran, et la lampe du bureau du boss reste allumée. Hors des heures de bureau, la veilleuse reste, même en plein jour le week-end. Une seule lumière du soir pour tous les étages (floorNight).
 - 2e et 3e étages : leurs portes sont la porte en bois de l'entrée du RDC (au 3e, à la place d'un trait clair sur le mur).
 - 2e et 3e étages : le boss ne danse plus à son bureau ; il y est assis, plus bas, au bureau du RDC (« WORLD'S BEST BOSS », écran, tasse), le tampon posé dessus au 2e.
 - 2e étage : il se dessine de nouveau (seul le sol s'affichait depuis son arrivée) ; un test vérifie que la page n'appelle que de vrais membres du canvas.

diff --git a/guide/fonctionnalites/28-redaction.md b/guide/fonctionnalites/28-redaction.md
@@ -28,7 +28,7 @@ L'onglet « ✍ 2e · rédaction » apparaît entre le 1er et le 3e dès que le 
 
 ## Le soir et le week-end
 
-L'étage passe en veilleuse : seuls ceux qui travaillent et le boss gardent leur lumière.
+L'étage passe en veilleuse, comme le RDC la nuit : la salle de rédaction s'allume comme une pièce tant qu'une intention y est, et chaque bureau de la revue quand une PR y est lue ; les bureaux libres restent dans l'ombre. Chaque agent au travail a sa lampe et son écran, et la lampe du bureau du boss reste allumée.
 
 ## Depuis le RDC
 
